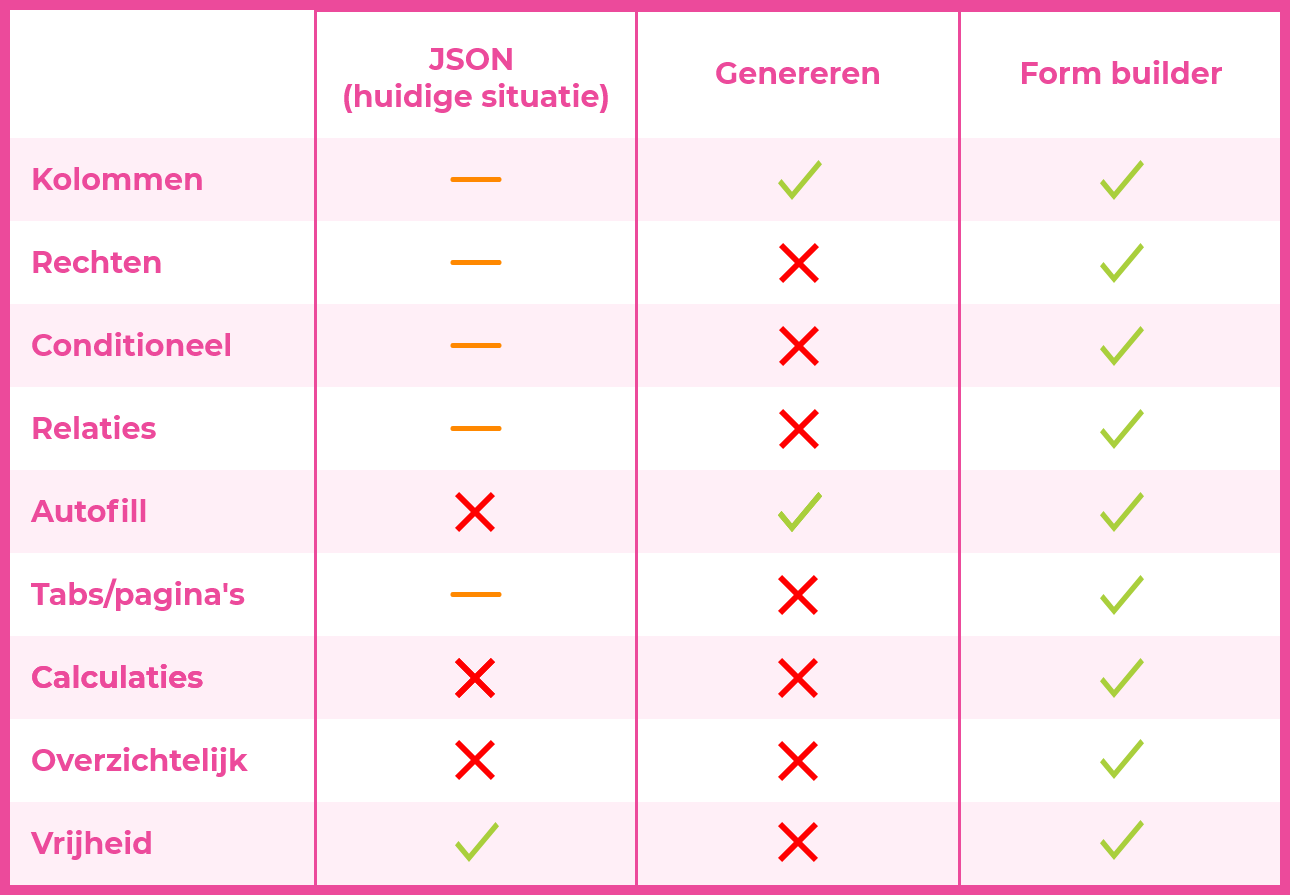
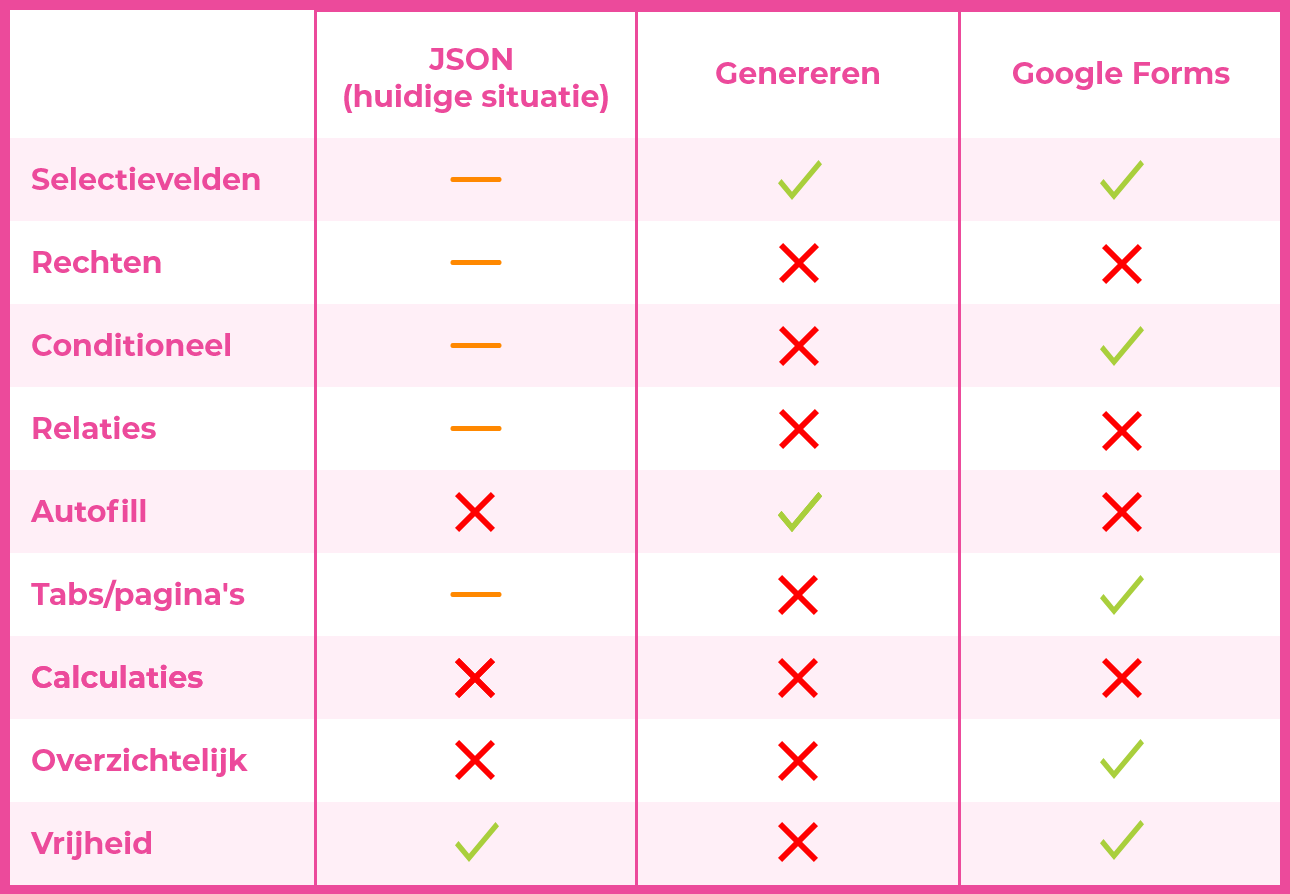
Updated comparison chart

diff --git a/src/components/pages/ComparisonChart.tsx b/src/components/pages/ComparisonChart.tsx
@@ -66,22 +66,21 @@ const Page: React.FC = () => {
               <div ref={Aanleiding}>
                 <h2>Aanleiding</h2>
                 <p>
-                Uit de conclusie van <Tooltip subDeelvraag={1} /> is gekomen dat het maken en aanpassen van formulieren verbeterd moet worden. Omdat er meerdere opties hiervoor zijn, is een comparison chart uitgevoerd
+                  Uit de conclusie van <Tooltip subDeelvraag={1} /> is gekomen dat het maken en aanpassen van formulieren verbeterd moet worden. Omdat er meerdere opties hiervoor zijn, is een comparison chart uitgevoerd
                 </p>
               </div>
               <div ref={Vraag}>
                 <h2>Vraag</h2>
                 <p>
-                Welke mogelijkheden zijn er om klanten en personeel van Stofloos de mogelijkheid te geven formulieren te maken en aanpassen. 
+                  Welke mogelijkheden zijn er om klanten en personeel van Stofloos de mogelijkheid te geven formulieren te maken en aanpassen.
                 </p>
               </div>
               <div ref={Uitvoering}>
                 <h2>Uitvoering</h2>
                 <p>
-                De handelingen die het formulier-component van Stofloos moet kunnen uitvoeren zijn in de meest linkse kolom ingevuld. In de ‘header’ van de tabel staan concurrenten en tools die de oplossing uitvoeren. 
+                  Voor de form-builder is Google forms [1] gebruikt. Er is voor Google forms gekozen omdat dit een van de bekendste formulier/enquête bouw websites is die er bestaat. De onderdelen die niet kunnen in Google Forms zouden wel opgepakt kunnen worden in een eigen versie van een formulier bouwer.
                 </p>
-                <p>De formulier builder die is gebruikt is Clickup (bron [1]). In Clickup kon je formulieren in elkaar klikken. Clickup is niet de finale oplossing omdat dit niet te integreren is, maar komt erg dicht in de buurt bij de vraag die moet worden opgelost.</p>
-                <p><span className="red bolder">X</span> betekent dat het niet kan in deze optie. 
+                <p><span className="red bolder">X</span> betekent dat het niet kan in deze optie.
                 </p>
                 <p><span className="green bolder">✔</span> betekent dat het mogelijk is met deze optie.
                 </p>
@@ -108,13 +107,13 @@ const Page: React.FC = () => {
               <div ref={Conclusie}>
                 <h2>Conclusie</h2>
                 <p>
-                    Er zijn niet veel mogelijkheden om de gebruikers de mogelijkheid te geven formulieren te bouwen of bewerken. Het genereren van de formulieren was een mogelijkheid, maar dit heeft te veel restricties. Een form builder is de beste mogelijkheid om klanten de mogelijkheid te geven formulieren te maken en aan te laten passen.
+                  Er zijn niet veel mogelijkheden om de gebruikers de mogelijkheid te geven formulieren te bouwen of bewerken. Het genereren van de formulieren was een mogelijkheid, maar dit heeft te veel restricties. Een form builder is de beste mogelijkheid om klanten de mogelijkheid te geven formulieren te maken en aan te laten passen.
                 </p>
               </div>
               <div ref={Bronnen}>
                 <h2>Bronnen</h2>
                 <p>
-                [1] Form View in ClickUpTM. (z.d.). Clickup. Geraadpleegd op 12 maart 2021, van https://clickup.com/features/form-view
+                  [1] Form View in ClickUpTM. (z.d.). Clickup. Geraadpleegd op 12 maart 2021, van https://clickup.com/features/form-view
 
                 </p>
               </div>
